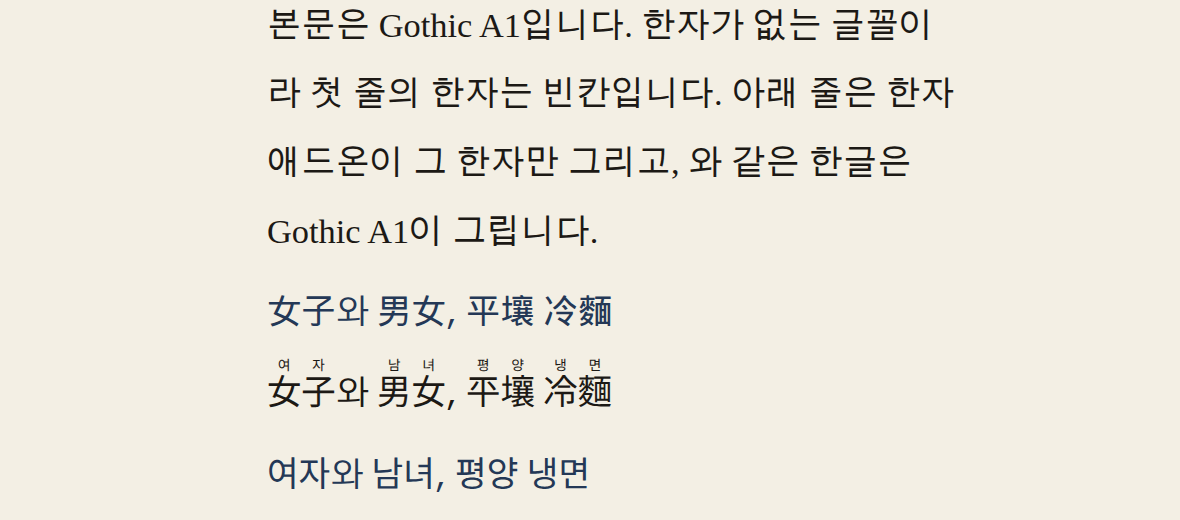
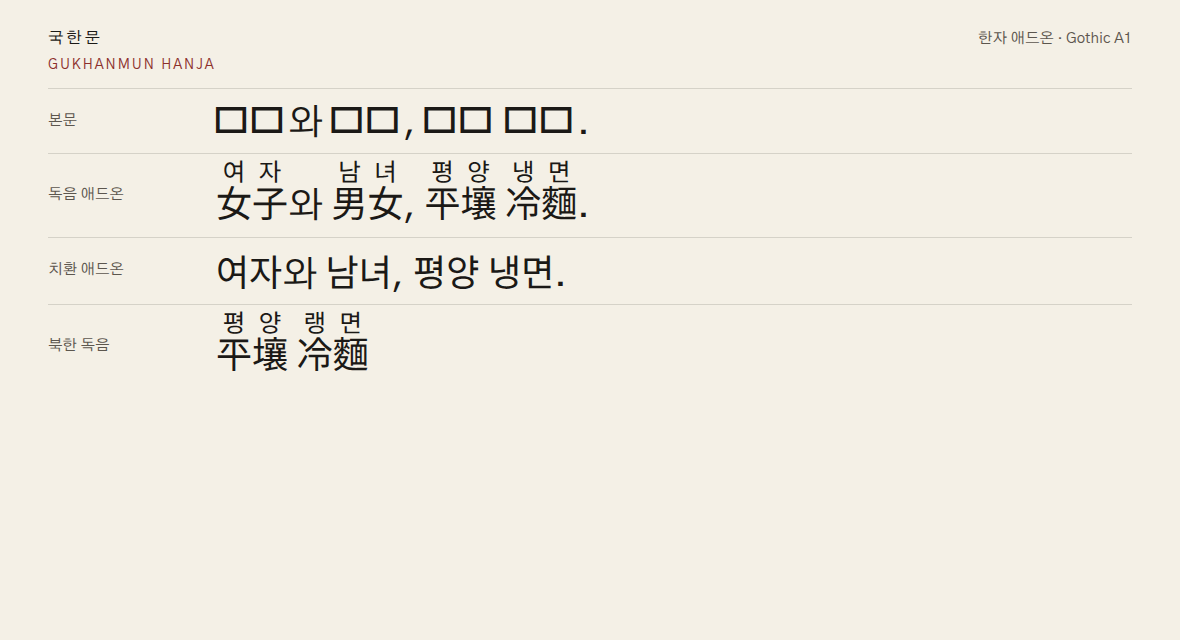
Point the site at moreal and rerecord the README demo.
The repository now lives at moreal/gukhanmun-font, so Pages, release notes, and the catalog use that origin. The demo GIF and guide screenshots show the current Gukhanmun name, 독음, 한글, 북한어, weight, and the Hanja add-on.

diff --git a/demo/index.html b/demo/index.html
@@ -8,7 +8,7 @@
     <meta property="og:title" content="국한문 Gukhanmun">
     <meta property="og:description" content="한자는 그대로 두고, 독음만 그립니다.">
     <meta property="og:type" content="website">
-    <meta property="og:url" content="https://morealdot.github.io/gukhanmun-font/">
+    <meta property="og:url" content="https://moreal.github.io/gukhanmun-font/">
     <meta name="twitter:card" content="summary">
     <link rel="preload" href="../dist/GukhanmunSans-Web.woff2" as="font" type="font/woff2" crossorigin>
     <link rel="preload" href="fonts/GothicA1-Regular.woff2" as="font" type="font/woff2" crossorigin>
@@ -1109,15 +1109,15 @@
           <p class="tagline">한자는 그대로 두고, 독음만 그립니다.</p>
           <p class="sub">OpenType 셰이핑으로 독음을 붙입니다. <code>&lt;ruby&gt;</code>도 자바스크립트도 필요 없고, 복사하면 한자입니다.</p>
           <div class="actions">
-            <a class="btn" href="https://github.com/morealdot/gukhanmun-font/releases">다운로드</a>
-            <a class="btn text" href="https://github.com/morealdot/gukhanmun-font">저장소</a>
+            <a class="btn" href="https://github.com/moreal/gukhanmun-font/releases">다운로드</a>
+            <a class="btn text" href="https://github.com/moreal/gukhanmun-font">저장소</a>
           </div>
         </div>
       </section>
       <div class="wrap">
         <section class="block" id="use">
           <header class="sec-head"><h2><span class="sec-no">Ⅰ</span> 넣는 법</h2></header>
-          <p class="lead">파일은 <a href="https://github.com/morealdot/gukhanmun-font/releases">GitHub 릴리스</a>에 있습니다. 웹 서브셋은 Regular 하나이고, 이 주소로도 바로 쓸 수 있습니다. 일곱 굵기의 정적 파일과 가변 폰트, 한자 애드온은 zip 안에 있습니다. 독음은 <code>line-height</code>를 2로 둡니다.</p>
+          <p class="lead">파일은 <a href="https://github.com/moreal/gukhanmun-font/releases">GitHub 릴리스</a>에 있습니다. 웹 서브셋은 Regular 하나이고, 이 주소로도 바로 쓸 수 있습니다. 일곱 굵기의 정적 파일과 가변 폰트, 한자 애드온은 zip 안에 있습니다. 독음은 <code>line-height</code>를 2로 둡니다.</p>
           <div class="snippet">
             <div class="snippet-head">
               <h3>웹 서브셋</h3>
@@ -1125,7 +1125,7 @@
             </div>
             <pre id="css-web"><code>@font-face {
   font-family: &quot;Gukhanmun Sans Web&quot;;
-  src: url(&quot;https://morealdot.github.io/gukhanmun-font/fonts/GukhanmunSans-Web.woff2&quot;) format(&quot;woff2&quot;);
+  src: url(&quot;https://moreal.github.io/gukhanmun-font/fonts/GukhanmunSans-Web.woff2&quot;) format(&quot;woff2&quot;);
   font-weight: 400;
   font-display: swap;
 }
@@ -1696,7 +1696,7 @@ hb-shape GukhanmunSans-Regular.otf --text '女子와 男女'
         <p class="layer-replace">女子와 男女, 平壤 冷麵</p>
         <p class="layer-label">북한 독음 <span class="loc">ko-KP</span></p>
         <p class="layer-kp">女子와 男女, 平壤 冷麵</p>
-        <p>일곱 굵기와 가변 폰트는 <a href="https://github.com/morealdot/gukhanmun-font/releases">릴리스</a>에 있습니다. 가변 폰트의 독음 획은 굵기 축을 따라가고, 기본 인스턴스는 ExtraLight입니다. 한자 사이의 공백은 한글 사이보다 좁습니다. Regular에서 224이고, 한글 사이는 280입니다. 가로쓰기만 됩니다.</p>
+        <p>일곱 굵기와 가변 폰트는 <a href="https://github.com/moreal/gukhanmun-font/releases">릴리스</a>에 있습니다. 가변 폰트의 독음 획은 굵기 축을 따라가고, 기본 인스턴스는 ExtraLight입니다. 한자 사이의 공백은 한글 사이보다 좁습니다. Regular에서 224이고, 한글 사이는 280입니다. 가로쓰기만 됩니다.</p>
         <p>빌드는 <code>planReadings</code>로 규칙을 한 번 고르고, <code>emitFamily</code>가 독음과 치환을 나눈 뒤, furifont <code>compileFont</code>가 윤곽과 GSUB를 씁니다. 한자 애드온은 그 정적 글꼴을 fontTools로 자릅니다.</p>
       </section>
 
@@ -1704,7 +1704,7 @@ hb-shape GukhanmunSans-Regular.otf --text '女子와 男女'
           <div class="foot-grid">
             <div>
               <p class="foot-label"><span class="fn">1</span> 라이선스</p>
-              <p>글꼴은 <a href="https://github.com/morealdot/gukhanmun-font/blob/main/OFL.txt">SIL OFL 1.1</a>로 배포합니다. <a href="https://github.com/adobe-fonts/source-han-sans">본고딕(Source Han Sans)</a>을 바탕으로 만들었지만, OFL 조건에 따라 원본의 예약 글꼴 이름인 Source는 쓰지 않습니다. 저장소 코드는 MIT 라이선스입니다.</p>
+              <p>글꼴은 <a href="https://github.com/moreal/gukhanmun-font/blob/main/OFL.txt">SIL OFL 1.1</a>로 배포합니다. <a href="https://github.com/adobe-fonts/source-han-sans">본고딕(Source Han Sans)</a>을 바탕으로 만들었지만, OFL 조건에 따라 원본의 예약 글꼴 이름인 Source는 쓰지 않습니다. 저장소 코드는 MIT 라이선스입니다.</p>
             </div>
             <div>
               <p class="foot-label"><span class="fn">2</span> 출처</p>
@@ -1716,8 +1716,8 @@ hb-shape GukhanmunSans-Regular.otf --text '女子와 男女'
             <div>
               <p class="foot-label"><span class="fn">3</span> 더 보기</p>
               <nav aria-label="바깥 링크">
-                <a href="https://github.com/morealdot/gukhanmun-font">저장소</a>
-                <a href="https://github.com/morealdot/gukhanmun-font/releases">릴리스</a>
+                <a href="https://github.com/moreal/gukhanmun-font">저장소</a>
+                <a href="https://github.com/moreal/gukhanmun-font/releases">릴리스</a>
                 <a href="/gukhanmun-font/playground/">놀이터</a>
               </nav>
             </div>

diff --git a/src/demo.ts b/src/demo.ts
@@ -21,7 +21,7 @@ const REGIONS = ['ko-KR', 'ko-KP'] as const
 const STYLES = ['ruby', 'replace'] as const
 
 /**
- * Text set in Gowun Batang. The build subsets that face to these characters plus printable ASCII.
+ * Text set in Gowun Batang on the local catalog. The build subsets that face to these characters plus printable ASCII.
  * The face has no Hanja, so section numbers are Roman numerals rather than 第一.
  */
 export const DISPLAY_COPY = [
@@ -34,6 +34,7 @@ export const DISPLAY_COPY = [
   '글자',
   '라이선스',
   '바탕',
+  '출처',
   '더 보기',
   '남한',
   '북한',
@@ -56,7 +57,7 @@ export const DISPLAY_COPY = [
   'No. 01',
 ].join('')
 
-/** Codepoints the landing page's display serif is allowed to contain. */
+/** Codepoints the local catalog's display serif is allowed to contain. */
 export function displayCodepoints(): number[] {
   const set = new Set<number>()
   for (let cp = 0x20; cp <= 0x7e; cp++)

diff --git a/src/sources.ts b/src/sources.ts
@@ -29,7 +29,7 @@ export const GOTHIC_A1_URL = 'https://github.com/google/fonts/raw/16680f8688ffcd
[1 lines of base64/hex data omitted]
 
 /**
- * Gowun Batang Regular, SIL OFL, Yanghee Ryu (류양희). Display serif for the landing page.
+ * Gowun Batang Regular, SIL OFL, Yanghee Ryu (류양희). Display serif for the local catalog.
  * google/fonts commit 539f6c4bb51e9b328dd5826bcbf2fd9b1ce56e19. The page ships a subset.
  */
 export const GOWUN_BATANG_URL = 'https://github.com/google/fonts/raw/539f6c4bb51e9b328dd5826bcbf2fd9b1ce56e19/ofl/gowunbatang/GowunBatang-Regular.ttf'

diff --git a/src/site.ts b/src/site.ts
@@ -1,5 +1,5 @@
-/** Published repository. The Pages path is this name, not the name GitHub still has checked out. */
-const REPOSITORY = 'morealdot/gukhanmun-font'
+/** Published repository. Pages is served at /gukhanmun-font/ on this owner's github.io host. */
+const REPOSITORY = 'moreal/gukhanmun-font'
 
 export function pagesRepo(): string {
   return 'gukhanmun-font'
@@ -10,7 +10,7 @@ export function pagesBase(): string {
 }
 
 export function pagesOrigin(): string {
-  return `https://morealdot.github.io/${pagesRepo()}`
+  return `https://moreal.github.io/${pagesRepo()}`
 }
 
 export function githubOrigin(): string {

diff --git a/src/read.test.ts b/src/read.test.ts
@@ -266,8 +266,8 @@ test('web coverage keeps non-Hanja and KS X 1001, and shared outlines', () => {
 
 test('pages paths are the gukhanmun-font site', () => {
   assert.equal(pagesBase(), '/gukhanmun-font/')
-  assert.equal(pagesOrigin(), 'https://morealdot.github.io/gukhanmun-font')
-  assert.equal(githubOrigin(), 'https://github.com/morealdot/gukhanmun-font')
+  assert.equal(pagesOrigin(), 'https://moreal.github.io/gukhanmun-font')
+  assert.equal(githubOrigin(), 'https://github.com/moreal/gukhanmun-font')
 })
 
 test('the pages landing is the typesetting story and the playground is separate', () => {

diff --git a/src/cli.ts b/src/cli.ts
@@ -299,7 +299,7 @@ async function ensureGothic(): Promise<void> {
   }
 }
 
-/** Subsets Gowun Batang to the landing page's display text. The full face is about 8 MB and has no Hanja. */
+/** Subsets Gowun Batang to the local catalog's display text. The full face is about 8 MB and has no Hanja. */
 async function ensureDisplayFace(): Promise<void> {
   const cache = join(root, '.cache', 'GowunBatang-Regular.ttf')
   const ttf = await hashedFile(cache, GOWUN_BATANG_URL, GOWUN_BATANG_SHA256)

diff --git a/docs/guide.md b/docs/guide.md
@@ -1,6 +1,6 @@
 # 국한문 안내
 
-이 문서는 측정값, 메트릭, 빌드, 라이선스 출처를 담습니다. 짧은 사용법은 저장소 [README](../README.md)에 있고, 동작은 [라이브 페이지](https://morealdot.github.io/gukhanmun-font/)와 [놀이터](https://morealdot.github.io/gukhanmun-font/playground/)가 설명합니다.
+이 문서는 측정값, 메트릭, 빌드, 라이선스 출처를 담습니다. 짧은 사용법은 저장소 [README](../README.md)에 있고, 동작은 [라이브 페이지](https://moreal.github.io/gukhanmun-font/)와 [놀이터](https://moreal.github.io/gukhanmun-font/playground/)가 설명합니다.
 
 한자는 그대로 두고 독음을 붙이는 글꼴입니다. `國漢文混用`이라고만 적습니다. `<ruby>`도, 자바스크립트도 필요 없고, 복사하면 한자 그대로입니다.
 
@@ -13,11 +13,11 @@
 
 Two families, two regions. Gukhanmun Sans draws the Hangul above the Hanja. Gukhanmun Hangul replaces the Hanja with that reading. Copy, paste, and search still see the Hanja. A variable font follows the weight axis, a Regular web subset drops most of the Hanja outside KS X 1001, and a Hanja-only add-on is meant to sit in front of any other Korean font.
 
-![國漢文混用 in Gukhanmun Sans and Gukhanmun Hangul](demo/screenshot-specimen.png)
+![國漢文混用 in Gukhanmun Sans and Gukhanmun Hangul](../demo/screenshot-specimen.png)
 
 한자 애드온을 Gothic A1 위에 얹은 모습입니다. 첫 줄은 Gothic A1이라 한자가 빈 상자입니다. 운영체제에 다른 한자 글꼴이 있으면 브라우저가 그 글자로 빈칸을 채웁니다. 데모는 그 한자를 빈 상자로 받는 `Hanja Box`를 뒤에 둡니다. 아래 줄은 애드온이 한자만 그리고, `와` 같은 한글은 Gothic A1이 그립니다. 넷째 줄의 `冷`은 북한 독음 `랭`입니다.
 
-![Hanja add-on layered on Gothic A1](demo/screenshot-hanja-addon.png)
+![Hanja add-on layered on Gothic A1](../demo/screenshot-hanja-addon.png)
 
 ## 쓰는 법
 

diff --git a/README.md b/README.md
@@ -4,7 +4,7 @@
 
 ![독음, 한글, 북한어, 굵기, 한자 애드온](docs/demo.gif)
 
-[라이브 데모](https://morealdot.github.io/gukhanmun-font/) · [놀이터](https://morealdot.github.io/gukhanmun-font/playground/) · [릴리스](https://github.com/morealdot/gukhanmun-font/releases)
+[라이브 데모](https://moreal.github.io/gukhanmun-font/) · [놀이터](https://moreal.github.io/gukhanmun-font/playground/) · [릴리스](https://github.com/moreal/gukhanmun-font/releases)
 
 ## 내려받기
 
